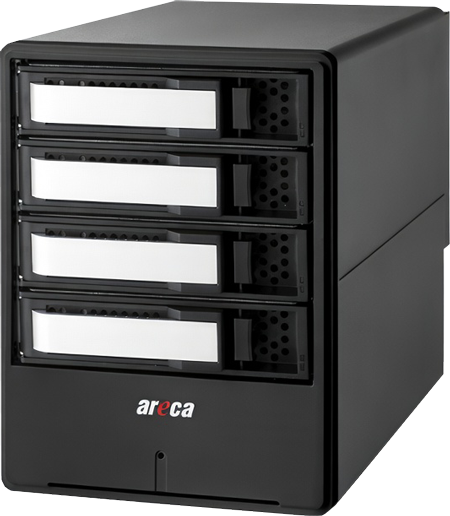
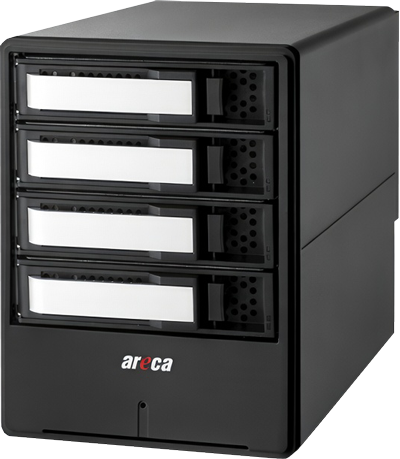
Cap hero product image to actual size 400x459px

diff --git a/src/components/sections/hero.tsx b/src/components/sections/hero.tsx
@@ -131,10 +131,10 @@ const Hero = () => {
           <Image
             src="/layout/hero-product.png"
             alt="FilmRAID Areca professional RAID system"
-            width={900}
-            height={900}
+            width={400}
+            height={459}
             priority
-            className="h-auto w-full max-w-md object-contain drop-shadow-2xl md:max-w-lg lg:max-w-xl"
+            className="h-auto w-full max-w-[400px] object-contain drop-shadow-2xl"
           />
         </motion.div>
       </div>
